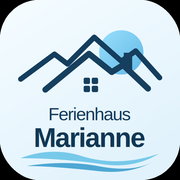
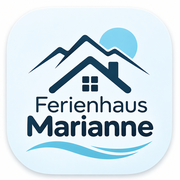
release: install 37 guest-selected photos and exact 1.0.2 artwork

diff --git a/admin.js b/admin.js
@@ -21,7 +21,7 @@ function passwordAdmin(){return formStart("password","Passwort ändern","Mindest
 var kinds=[["sights","Sehenswürdigkeiten"],["hikes","Wandern & Natur"],["lake","See & Aktivitäten"],["family","Familien & Kinder"],["rainy","Schlechtwetter-Tipps"],["restaurants","Restaurants & Cafés"]];
 function itemsAdmin(state){var kind=state.adminFilter;var all=state.records.filter(function(x){return x.kind===kind});return '<div class="panel"><div class="row between" style="flex-wrap:wrap"><div><h3>Einträge verwalten</h3><p class="muted small">Fotos ändern, Reihenfolge festlegen und saisonale Einträge ausblenden.</p></div><button class="btn" data-action="admin-new">'+icon("plus",17)+' Neu hinzufügen</button></div><div class="field" style="max-width:330px"><label>Bereich auswählen</label><select class="input" id="admin-kind">'+kinds.map(function(k){return '<option value="'+k[0]+'" '+(k[0]===kind?"selected":"")+'>'+E(k[1])+'</option>'}).join("")+'</select></div><div class="admin-list">'+all.map(function(it,i){return '<div class="admin-item"><span style="font-size:1.5rem">'+(it.kind==="restaurants"?"🍽":it.kind==="hikes"?"🥾":"📍")+'</span><div class="meta"><strong>'+E(it.title)+'</strong><span>'+E(it.address||"")+'</span>'+(it.hidden?'<span class="badge" style="display:inline-block;margin-top:5px">Ausgeblendet</span>':'')+'</div><div class="buttons"><button class="iconbtn" data-action="admin-up" data-id="'+E(it.id)+'" title="Nach oben" '+(!i?'disabled':'')+'>'+icon("up",17)+'</button><button class="iconbtn" data-action="admin-down" data-id="'+E(it.id)+'" title="Nach unten" '+(i===all.length-1?'disabled':'')+'>'+icon("down",17)+'</button><button class="iconbtn" data-action="admin-toggle" data-id="'+E(it.id)+'" title="Sichtbarkeit">'+icon("eye",17)+'</button><button class="iconbtn" data-action="admin-edit" data-id="'+E(it.id)+'" title="Bearbeiten">'+icon("edit",17)+'</button><button class="iconbtn" data-action="admin-delete" data-id="'+E(it.id)+'" title="Löschen">'+icon("trash",17)+'</button></div></div>'}).join("")+'</div></div>'}
 function editAdmin(state){var isNew=state.editId==="new",item=isNew?{title:"",en:"",desc:"",descEn:"",address:"",website:"",photoQuery:"",kind:state.adminFilter}:state.records.find(function(i){return i.id===state.editId});if(!item)return itemsAdmin(state);return '<div class="row between" style="margin-bottom:13px"><h3>'+E(isNew?"Neuen Eintrag erstellen":"Eintrag bearbeiten")+'</h3><button class="btn secondary" data-action="admin-cancel">Abbrechen</button></div>'+formStart("entry",isNew?"Neuer Eintrag":item.title,"Die deutsche Beschreibung ist die Grundlage. Eigene Texte in anderen Sprachen benötigen eigene Übersetzungen.")+'<input type="hidden" name="id" value="'+E(item.id||"")+'">'+field("Name / Titel","title",item.title,"text",true)+field("Englischer Titel (optional)","en",item.en)+area("Beschreibung (Deutsch)","desc",item.desc)+area("Beschreibung (Englisch, optional)","descEn",item.descEn)+field("Adresse oder Ausgangspunkt","address",item.address,"text",true)+field("Offizielle Website (optional)","website",item.website,"url",false)+'<div class="field"><label>Eigenes Foto auswählen (JPEG, PNG, HEIC sofern lesbar)</label><input type="file" id="item-photo" name="photo" accept="image/*" class="input"></div>'+(isNew?"":'<div class="row"><button type="button" class="btn secondary" data-action="admin-remove-photo" data-id="'+E(item.id)+'">'+icon("trash",18)+' Eigenes Foto entfernen</button></div>')+'<p class="footnote">Bilddateien werden nur auf diesem iPad in IndexedDB gespeichert. Ein neues Foto wird automatisch für den Bildschirm verkleinert.</p>'+formEnd(isNew?"Eintrag erstellen":"Änderungen speichern")}
-function loginScreen(){var has=stored("password");return '<div class="row" style="justify-content:center;margin:20px 0"><img src="assets/logo-v102.svg" alt="Ferienhaus Marianne" style="width:92px;height:92px;border-radius:20px"></div>'+formStart(has?"login":"setup",has?"Gastgeber-Anmeldung":"Gastgeber-Passwort einrichten",has?"Nur für Gastgeber. Passwort eingeben, um Inhalte und WLAN-Daten zu verwalten.":"Erster Start auf diesem iPad. Bitte ein eigenes Passwort festlegen (mindestens 8 Zeichen).")+(has?"":field("Neues Passwort","password","","password",true)+field("Passwort wiederholen","repeat","","password",true))+(has?field("Passwort","password","","password",true):"")+'<p class="footnote">Der Zugriffsschutz gilt lokal für dieses iPad. Eine öffentliche GitHub-Web-App kann keine vollständig sichere Serveranmeldung bieten.</p>'+formEnd(has?"Entsperren":"Passwort festlegen")}
+function loginScreen(){var has=stored("password");return '<div class="row" style="justify-content:center;margin:20px 0"><img src="assets/logo-v102.png" alt="Ferienhaus Marianne" style="width:92px;height:92px;border-radius:20px"></div>'+formStart(has?"login":"setup",has?"Gastgeber-Anmeldung":"Gastgeber-Passwort einrichten",has?"Nur für Gastgeber. Passwort eingeben, um Inhalte und WLAN-Daten zu verwalten.":"Erster Start auf diesem iPad. Bitte ein eigenes Passwort festlegen (mindestens 8 Zeichen).")+(has?"":field("Neues Passwort","password","","password",true)+field("Passwort wiederholen","repeat","","password",true))+(has?field("Passwort","password","","password",true):"")+'<p class="footnote">Der Zugriffsschutz gilt lokal für dieses iPad. Eine öffentliche GitHub-Web-App kann keine vollständig sichere Serveranmeldung bieten.</p>'+formEnd(has?"Entsperren":"Passwort festlegen")}
 window.MARIANNE_ADMIN_RENDER=function(state){if(!state.admin)return '<div class="page-header"><button class="btn secondary" data-action="admin-logout">'+icon("back",19)+' Zur Gästeansicht</button><h2>Gastgeber</h2></div>'+loginScreen();return head("Gastgeber-Einstellungen")+nav(state)+(state.adminPage==="guest"?guestAdmin(state):state.adminPage==="wifi"?wifiAdmin(state):state.adminPage==="contacts"?contactsAdmin(state):state.adminPage==="password"?passwordAdmin():state.adminPage==="items"?itemsAdmin(state):state.adminPage==="edit"?editAdmin(state):homeAdmin(state))+'<footer class="version-bar"><span>Ferienhaus Marianne</span><span>Version 1.0.2 · created by MS</span></footer>'};
 window.MARIANNE_ADMIN_BACK=function(state){if(!state.admin){window.MARIANNE_ADMIN_LOCK();return}if(state.adminPage==="edit"){state.adminPage="items";state.editId=null}else state.adminPage="home"};
 window.MARIANNE_ADMIN_CLICK=function(action,el,state,render,toast,write){

diff --git a/app.js b/app.js
@@ -26,8 +26,8 @@ function findItem(id){return state.records.find(function(i){return i.id===id})}
 function listKind(kind){return state.records.filter(function(i){return !i.hidden&&(i.kind===kind||i.also&&i.also.includes(kind))})}
 function navUrl(item){return 'https://www.google.com/maps/dir/?api=1&origin='+encodeURIComponent(window.MARIANNE_ADDRESS)+'&destination='+encodeURIComponent(item.address||item.title)+'&travelmode=driving'}
 function openLink(url){if(!/^https:\/\//i.test(url))return;window.open(url,"_blank","noopener,noreferrer")}
-function header(){var choice=window.MARIANNE_LANGS.find(function(x){return x[0]===state.lang})||window.MARIANNE_LANGS[0];return '<header class="header"><img class="brand-logo" src="assets/logo-v102.svg" alt="Ferienhaus Marianne Logo"><div class="brand-copy"><h1>Ferienhaus Marianne</h1><p>'+esc(t("welcome"))+'</p><p class="guest">'+esc(state.guest?t("glad")+", "+state.guest+".":"St. Wolfgang am Wolfgangsee")+'</p></div><div class="header-right"><button class="language-toggle" data-action="lang" aria-label="'+esc(t("language"))+'">'+flag(state.lang)+'<span class="name">'+esc(choice[1])+'</span>'+ico("down",16)+'</button><span class="location">⌖ St. Wolfgang · Wolfgangsee</span></div></header>'}
-function landscape(){return '<div class="landscape-illustration" aria-hidden="true"><img class="landscape" src="./assets/skyline-v102.svg" alt="" loading="eager" decoding="async"></div>'}
+function header(){var choice=window.MARIANNE_LANGS.find(function(x){return x[0]===state.lang})||window.MARIANNE_LANGS[0];return '<header class="header"><img class="brand-logo" src="assets/logo-v102.png" alt="Ferienhaus Marianne Logo"><div class="brand-copy"><h1>Ferienhaus Marianne</h1><p>'+esc(t("welcome"))+'</p><p class="guest">'+esc(state.guest?t("glad")+", "+state.guest+".":"St. Wolfgang am Wolfgangsee")+'</p></div><div class="header-right"><button class="language-toggle" data-action="lang" aria-label="'+esc(t("language"))+'">'+flag(state.lang)+'<span class="name">'+esc(choice[1])+'</span>'+ico("down",16)+'</button><span class="location">⌖ St. Wolfgang · Wolfgangsee</span></div></header>'}
+function landscape(){return '<div class="landscape-illustration" aria-hidden="true"><img class="landscape" src="./assets/skyline-v102.jpg" alt="" loading="eager" decoding="async"></div>'}
 function weatherSnapshot(){var w=state.weather;if(!w||!w.days||!w.days.length)return '<div class="weather-panel"><div class="weather-title">'+esc(t("weather"))+'</div><p class="muted">'+esc(t("weatherUnavailable"))+'</p><button data-action="weather-refresh" class="btn secondary" style="margin-top:12px">'+ico("refresh",18)+' '+esc(t("refresh"))+'</button></div>';var d=w.days[0],now=w.current;var currentTemp=now&&Number.isFinite(now.temp)?Math.round(now.temp):Math.round(d.max);var next=w.days.slice(0,3);return '<div class="weather-panel"><div class="weather-title">'+esc(t("weather"))+'</div><div class="weather-now"><span class="weather-symbol">'+(symbols[d.icon]||"🌤")+'</span><span class="weather-temp">'+esc(currentTemp)+'°</span><div class="muted" style="font-weight:650">'+esc(t(d.icon==="sun"?"sunny":d.icon==="rain"?"rain":d.icon==="snow"?"snow":d.icon==="cloud"?"cloudy":"partly"))+'</div></div><div class="forecast-strip">'+next.map(function(day,i){return '<div class="forecast-day"><span class="tiny">'+esc(i===0?t("today"):i===1?t("tomorrow"):t("after"))+'</span><span class="symbol">'+(symbols[day.icon]||"🌤")+'</span><span>'+esc(Math.round(day.max))+'° / '+esc(Math.round(day.min))+'°</span></div>'}).join("")+'</div><button class="forecast-link" data-action="weather">'+esc(t("week"))+' →</button><div class="attribution">'+esc(t("weatherSource"))+': '+esc(state.weatherSource||"MET Norway")+'</div></div>'}
 function home(){var tiles=[["excursions","mountain",t("excursions"),t("discover")],["restaurants","restaurant",t("restaurants"),t("eat")],["events","calendar",t("events"),t("nearEvents")],["emergency","phone",t("emergency"),t("help")],["wifi","wifi",t("wifi"),t("wifiShort")]];return header()+'<section class="hero">'+landscape()+'<div class="hero-content">'+weatherSnapshot()+'</div></section><section class="tiles">'+tiles.map(function(it){return '<button class="tile" data-action="go" data-view="'+it[0]+'"><span class="tile-icon">'+ico(it[1],29)+'</span><h3>'+esc(it[2])+'</h3><p>'+esc(it[3])+'</p><span class="arrow">'+ico("forward",18)+'</span></button>'}).join("")+'</section><footer class="footer"><span>Ferienhaus Marianne · St. Wolfgang · v1.0.2</span><button class="settings-trigger" data-action="settings" aria-label="'+esc(t("settings"))+'">'+ico("settings",23)+'</button></footer>'}
 function pageHeader(title){return '<div class="page-header"><div class="left"><button class="btn secondary icon" data-action="back">'+ico("back",22)+' '+esc(t("back"))+'</button><h2 class="page-headline">'+esc(title)+'</h2></div><button class="btn secondary icon" data-action="home">'+ico("home",20)+'</button></div>'}

diff --git a/curated.js b/curated.js
@@ -1,1 +1,2 @@
-/* 1.0.2: uploaded host-owned photos will be registered here by GitHub Actions. */
+/* Approved curated photos, stored in this repository */
+window.MARIANNE_PHOTOS=Object.assign({},window.MARIANNE_PHOTOS||{},{"schafberg":{"url":"./assets/curated/schafberg.jpg"},"church":{"url":"./assets/curated/church.jpg"},"zwoelfer":{"url":"./assets/curated/zwoelfer.jpg"},"kaiservilla":{"url":"./assets/curated/kaiservilla.jpg"},"schifffahrt":{"url":"./assets/curated/schifffahrt.jpg"},"falkenstein":{"url":"./assets/curated/falkenstein.jpg"},"buerglweg":{"url":"./assets/curated/buerglweg.jpg"},"schwarzensee":{"url":"./assets/curated/schwarzensee.jpg"},"postalm":{"url":"./assets/curated/postalm.jpg"},"plomberg":{"url":"./assets/curated/plomberg.jpg"},"steinkluefte":{"url":"./assets/curated/steinkluefte.jpg"},"vormauer":{"url":"./assets/curated/vormauer.jpg"},"bleckwand":{"url":"./assets/curated/bleckwand.jpg"},"badenwolf":{"url":"./assets/curated/badenwolf.jpg"},"strandgilgen":{"url":"./assets/curated/strandgilgen.jpg"},"naturstrobl":{"url":"./assets/curated/naturstrobl.jpg"},"sup":{"url":"./assets/curated/sup.jpg"},"elektroboot":{"url":"./assets/curated/elektroboot.jpg"},"segeln":{"url":"./assets/curated/segeln.jpg"},"wake":{"url":"./assets/curated/wake.jpg"},"abarena":{"url":"./assets/curated/abarena.jpg"},"rodeln":{"url":"./assets/curated/rodeln.jpg"},"kleefeld":{"url":"./assets/curated/kleefeld.jpg"},"kindersegeln":{"url":"./assets/curated/kindersegeln.jpg"},"therme":{"url":"./assets/curated/therme.jpg"},"altaussee":{"url":"./assets/curated/altaussee.jpg"},"wellness":{"url":"./assets/curated/wellness.jpg"},"hallstatt":{"url":"./assets/curated/hallstatt.jpg"},"europark":{"url":"./assets/curated/europark.jpg"},"leopoldhof":{"url":"./assets/curated/leopoldhof.jpg"},"dorfalm":{"url":"./assets/curated/dorfalm.jpg"},"paul":{"url":"./assets/curated/paul.jpg"},"roessl":{"url":"./assets/curated/roessl.jpg"},"hias":{"url":"./assets/curated/hias.jpg"},"genussschmied":{"url":"./assets/curated/genussschmied.jpg"},"eden":{"url":"./assets/curated/eden.jpg"},"buergl":{"url":"./assets/curated/buergl.jpg"}});

diff --git a/index.html b/index.html
@@ -12,7 +12,7 @@
 <meta name="application-name" content="Ferienhaus Marianne">
 <title>Ferienhaus Marianne · Wolfgangsee</title>
 <link rel="manifest" href="./manifest.webmanifest">
-<link rel="icon" type="image/svg+xml" href="./assets/logo-v102.svg">
+<link rel="icon" type="image/png" href="./assets/icon-192.png">
 <link rel="apple-touch-icon" sizes="180x180" href="./assets/apple-touch-icon.png">
 <link rel="stylesheet" href="./style.css">
 <link rel="stylesheet" href="./modern.css">

diff --git a/sw.js b/sw.js
@@ -1,5 +1,5 @@
 /* Ferienhaus Marianne 1.0.2 — one-iPad offline shell and optional local image cache. */
-const CACHE_NAME="marianne-v1.0.2r2";
+const CACHE_NAME="marianne-v1.0.2withphotos";
 const CORE=[
  "./","./index.html","./style.css","./modern.css","./v102.css","./data.js",
  "./photos.js","./curated.js","./i18n.js","./v102-i18n.js","./v102-details.js",
